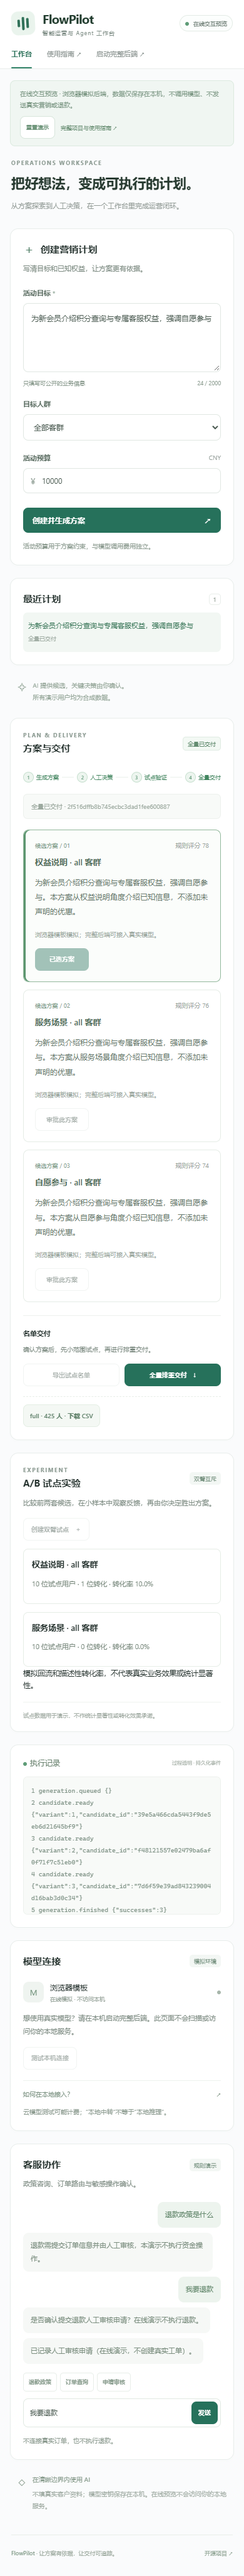
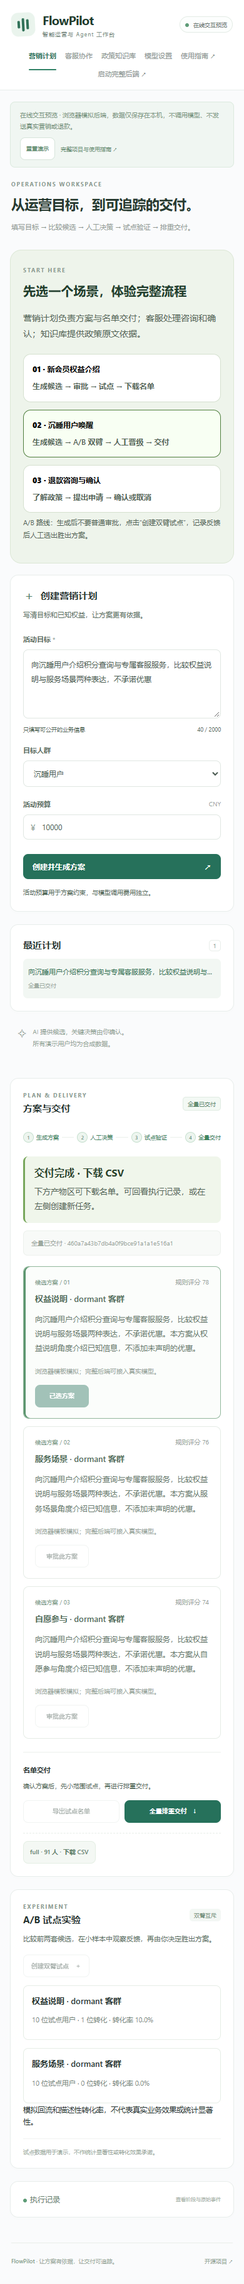
feat: guide FlowPilot users through focused workspaces and delivery routes

diff --git a/web/index.html b/web/index.html
@@ -12,11 +12,12 @@
 <body>
 <header class="topbar">
   <a class="brand" href="./" aria-label="FlowPilot 首页"><span class="brand-mark" aria-hidden="true"><i></i><i></i><i></i></span><strong>FlowPilot<span>智能运营与 Agent 工作台</span></strong></a>
-  <nav aria-label="主导航"><a class="nav-active" href="#workspace">工作台</a><a href="https://github.com/dellya-zhang/temp/blob/main/docs/用户操作指南.md" target="_blank" rel="noopener noreferrer">使用指南 ↗</a><a id="apiLink" href="/docs" target="_blank" rel="noopener noreferrer">API 文档 ↗</a></nav>
+  <nav aria-label="主导航"><a class="nav-active" href="#marketing" data-view="marketing">营销计划</a><a href="#support" data-view="support">客服协作</a><a href="#knowledge" data-view="knowledge">政策知识库</a><a href="#settings" data-view="settings">模型设置</a><a href="https://github.com/dellya-zhang/temp/blob/main/docs/用户操作指南.md" target="_blank" rel="noopener noreferrer">使用指南 ↗</a><a id="apiLink" href="/docs" target="_blank" rel="noopener noreferrer">API 文档 ↗</a></nav>
   <span class="environment" id="environmentBadge"><i></i> 本地工作区</span>
 </header>
-<div class="page-heading"><div><div class="eyebrow">OPERATIONS WORKSPACE</div><h1>把好想法，变成可执行的计划。</h1><p>从方案探索到人工决策，在一个工作台里完成运营闭环。</p></div><a class="text-link" href="https://github.com/dellya-zhang/temp" target="_blank" rel="noopener noreferrer">查看项目源码 <span>↗</span></a></div>
+<div class="page-heading"><div><div class="eyebrow">OPERATIONS WORKSPACE</div><h1>从运营目标，到可追踪的交付。</h1><p>填写目标 → 比较候选 → 人工决策 → 试点验证 → 排重交付。</p></div><a class="text-link" href="https://github.com/dellya-zhang/temp" target="_blank" rel="noopener noreferrer">查看项目源码 <span>↗</span></a></div>
 <p id="notice" class="notice" role="alert" aria-live="polite"></p>
+<section class="journey-intro" id="journeyIntro" aria-label="体验指南"><div><span class="eyebrow">START HERE</span><h2>先选一个场景，体验完整流程</h2><p>营销计划负责方案与名单交付；客服处理咨询和确认；知识库提供政策原文依据。</p></div><div class="scenario-list"><button class="scenario" data-scenario="member"><strong>01 · 新会员权益介绍</strong><span>生成候选 → 审批 → 试点 → 下载名单</span></button><button class="scenario" data-scenario="experiment"><strong>02 · 沉睡用户唤醒</strong><span>生成候选 → A/B 双臂 → 人工晋级 → 交付</span></button><button class="scenario" data-scenario="support"><strong>03 · 退款咨询与确认</strong><span>了解政策 → 提出申请 → 确认或取消</span></button></div><p id="scenarioHint" class="hint" aria-live="polite">场景只填入示例目标；点击“创建并生成方案”才会创建任务。</p></section>
 <main id="workspace" class="workspace">
   <aside class="left-column">
     <section class="panel brief-panel"><div class="section-heading"><span class="section-icon">＋</span><h2>创建营销计划</h2></div><p class="hint">写清目标和已知权益，让方案更有依据。</p>
@@ -32,24 +33,25 @@
   <article class="main-column">
     <section class="panel plan-panel"><div class="section-heading spread"><div><div class="eyebrow">PLAN & DELIVERY</div><h2>方案与交付</h2></div><span id="phaseBadge" class="phase-badge">尚未开始</span></div>
       <div class="stepper" aria-label="任务进度"><span data-step="0"><i>1</i>生成方案</span><b></b><span data-step="1"><i>2</i>人工决策</span><b></b><span data-step="2"><i>3</i>试点验证</span><b></b><span data-step="3"><i>4</i>全量交付</span></div>
-      <p class="state" id="status">选择历史任务或创建新任务</p>
+      <div class="next-action" aria-live="polite"><strong id="nextTitle">第一步 · 描述活动目标</strong><p id="nextDetail">选择上方场景或填写左侧目标，生成三套候选后再决定交付路线。</p></div><p class="state" id="status">选择历史任务或创建新任务</p>
       <div id="candidates"><div class="empty-state"><span class="empty-art" aria-hidden="true">✧</span><h3>下一项计划，从这里开始</h3><p>在左侧描述活动目标。生成后，你可以比较候选、确认方案，<br class="desktop-only">或通过 A/B 试点验证不同方向。</p><div class="empty-tags"><span>有界并发</span><span>人工确认</span><span>交付可追踪</span></div></div></div>
-      <div class="delivery-actions"><div><h3>名单交付</h3><p class="hint">确认方案后，先小范围试点，再进行排重交付。</p></div><div><button id="pilot" class="secondary" disabled>导出试点名单</button><button id="finalize" class="primary" disabled>全量排重交付 <span>↓</span></button></div></div><div id="artifacts" class="artifact-list"></div>
+      <div class="route-choice" id="routeChoice" hidden><strong>选择一条决策路线</strong><p>单方案：在候选卡片中审批一套，再导出试点。A/B：先创建双臂试点，观察反馈后人工晋级。两条路线互斥。</p></div><div class="delivery-actions"><div><h3>名单交付</h3><p class="hint">确认方案后，先小范围试点，再进行排重交付。</p></div><div><button id="pilot" class="secondary" disabled>导出试点名单</button><button id="finalize" class="primary" disabled>全量排重交付 <span>↓</span></button></div></div><div id="artifacts" class="artifact-list"></div>
     </section>
     <section class="panel experiment-panel"><div class="section-heading spread"><div><div class="eyebrow">EXPERIMENT</div><h2>A/B 试点实验</h2></div><span class="subtle-tag">双臂互斥</span></div><p class="hint">比较前两套候选，在小样本中观察反馈，再由你决定胜出方案。</p><button id="experiment" class="secondary" disabled>创建双臂试点 <span>＋</span></button><div id="experimentView"></div><div class="experiment-note">试点数据用于演示，不作统计显著性或转化效果承诺。</div></section>
-    <section class="panel event-panel"><details open><summary><span><span class="live-dot"></span>执行记录</span><small>过程透明 · 持久化事件</small></summary><pre id="events">等待任务开始…</pre></details></section>
+    <section class="panel event-panel"><details><summary><span><span class="live-dot"></span>执行记录</span><small>查看阶段与原始事件</small></summary><pre id="events">等待任务开始…</pre></details></section>
   </article>
   <aside class="right-column support">
     <section class="panel model-panel"><div class="section-heading spread"><h2>模型连接</h2><span id="modelState" class="subtle-tag">检查中</span></div><div class="model-identity"><span class="model-icon">M</span><div><strong id="modelName">本地后端</strong><small id="modelMode">正在读取连接状态</small></div><span class="connection-dot"></span></div><p id="modelDescription" class="hint">密钥仅由本机后端读取，页面不接收模型 API Key。</p><div id="modelBudget" class="budget-strip" hidden></div><div class="model-actions"><button id="testModel" class="secondary" disabled>测试本机连接</button><button id="refreshModel" class="quiet">刷新</button></div><pre id="modelResult" class="model-result" hidden aria-live="polite"></pre>
       <details class="connection-guide"><summary>如何在本地接入？ <span>↗</span></summary><ol><li>克隆项目，在本机安装依赖。</li><li>在 <code>.env</code> 设置模型与密钥，或接入本机推理服务。</li><li>绑定 <code>127.0.0.1</code> 启动后，从本地页面测试。</li></ol><a href="https://github.com/dellya-zhang/temp/blob/main/docs/本地模型接入.md" target="_blank" rel="noopener noreferrer">查看安全接入指南 ↗</a></details><p class="fine-print">云模型测试可能计费；“本地中转”不等于“本地推理”。</p>
     </section>
-    <section class="panel support-panel"><div class="section-heading spread"><h2>客服协作</h2><span class="subtle-tag">规则演示</span></div><p class="hint">政策咨询、订单路由与敏感操作确认。</p><div id="chatlog" aria-live="polite"><div class="chat-welcome"><span>✧</span><p>你好，我可以介绍退款政策，<br>或协助发起审核申请。</p></div></div><div class="quick-prompts"><button class="chip" data-prompt="退款政策是什么">退款政策</button><button class="chip" data-prompt="我的订单在哪里">订单查询</button><button class="chip" data-prompt="我要退款">申请审核</button></div><label class="sr-only" for="message">咨询内容</label><div class="chat-input"><input id="message" value="退款政策是什么" maxlength="2000" placeholder="输入你的问题…"><button id="send" class="primary" aria-label="发送消息">发送</button></div><div id="confirmBox" hidden><div class="confirm-note">此操作需要你的确认</div><button id="confirm" class="primary">确认提交审核</button><button class="secondary" id="cancel">取消申请</button></div><p class="fine-print">不连接真实订单，也不执行退款。</p></section>
-    <section class="panel knowledge-panel"><div class="section-heading spread"><h2>政策知识库</h2><span class="subtle-tag">引用可追溯</span></div><p class="hint">查询本地演示政策，回答附带原文和来源。此入口不执行退款等操作。</p><label for="knowledgeQuestion">政策问题</label><input id="knowledgeQuestion" value="退款政策是什么" maxlength="500" placeholder="如：会员权益有哪些？"><p><label><input type="checkbox" id="knowledgeModel"> 使用已配置模型筛选依据（可能计费）</label></p><button id="knowledgeAsk" class="secondary">检索政策依据</button><div id="knowledgeResult" aria-live="polite"><p class="fine-print">默认免费摘录；模型模式会将问题与检索片段发给所配置的模型。</p></div></section>
+    <section class="panel support-panel"><div class="view-intro"><div class="eyebrow">SUPPORT WORKSPACE</div><h2>先问政策，再确认操作</h2><p>咨询不会发起审核；只有明确提出退款申请，才进入确认流程。确认结果为演示审核记录。</p></div><div class="section-heading spread"><h2>客服协作</h2><span class="subtle-tag">规则演示</span></div><p class="hint">政策咨询、订单路由与敏感操作确认。</p><div id="chatlog" aria-live="polite"><div class="chat-welcome"><span>✧</span><p>你好，我可以介绍退款政策，<br>或协助发起审核申请。</p></div></div><div class="quick-prompts"><button class="chip" data-prompt="退款政策是什么">退款政策</button><button class="chip" data-prompt="我的订单在哪里">订单查询</button><button class="chip" data-prompt="我要退款">申请审核</button></div><label class="sr-only" for="message">咨询内容</label><div class="chat-input"><input id="message" value="退款政策是什么" maxlength="2000" placeholder="输入你的问题…"><button id="send" class="primary" aria-label="发送消息">发送</button></div><div id="confirmBox" hidden><div class="confirm-note">此操作需要你的确认</div><button id="confirm" class="primary">确认提交审核</button><button class="secondary" id="cancel">取消申请</button></div><p class="fine-print">不连接真实订单，也不执行退款。</p></section>
+    <section class="panel knowledge-panel"><div class="view-intro"><div class="eyebrow">POLICY EVIDENCE</div><h2>让政策回答有原文依据</h2><p>输入问题 → 检索政策 → 阅读回答与来源。完整检索需要本地后端。</p></div><div class="section-heading spread"><h2>政策知识库</h2><span class="subtle-tag">引用可追溯</span></div><p class="hint">查询本地演示政策，回答附带原文和来源。此入口不执行退款等操作。</p><label for="knowledgeQuestion">政策问题</label><input id="knowledgeQuestion" value="退款政策是什么" maxlength="500" placeholder="如：会员权益有哪些？"><p><label><input type="checkbox" id="knowledgeModel"> 使用已配置模型筛选依据（可能计费）</label></p><button id="knowledgeAsk" class="secondary">检索政策依据</button><div id="knowledgeResult" aria-live="polite"><p class="fine-print">默认免费摘录；模型模式会将问题与检索片段发给所配置的模型。</p></div></section>
     <section class="privacy-note"><span aria-hidden="true">◇</span><div><strong>在清晰边界内使用 AI</strong><p>不填真实客户资料；模型密钥保存在本机。在线预览不会访问你的本地服务。</p><details><summary>工作区访问令牌</summary><label for="token">本地后台的 ACCESS_TOKEN</label><input id="token" type="password" autocomplete="off" placeholder="可选；请勿填写模型 Key"><button id="saveToken" class="secondary">用于本次页面会话</button></details></div></section>
   </aside>
 </main>
 <footer><span><strong>FlowPilot</strong> · 让方案有依据，让交付可追踪。</span><a href="https://github.com/dellya-zhang/temp" target="_blank" rel="noopener noreferrer">开源项目 ↗</a></footer>
 <script src="./demo.js"></script>
 <script src="./app.js"></script>
+<script src="./workspace.js"></script>
 </body>
 </html>

diff --git a/web/app.js b/web/app.js
@@ -2,12 +2,12 @@ const $=id=>document.getElementById(id);let cid=null,sid=sessionStorage.getItem(
 const statuses={CREATED:'待生成',GENERATING:'生成中',WAITING_APPROVAL:'等待人工审批',PILOT_READY:'可交付试点',PILOT_EXPORTED:'试点已完成',COMPLETED:'全量已交付',FAILED:'生成失败'};
 async function api(path,method='GET',body,extraHeaders={}){const r=await fetch('/api/v1'+path,{method,headers:{'Content-Type':'application/json',...extraHeaders,...(token?{'Authorization':'Bearer '+token}:{})},body:body===undefined?undefined:JSON.stringify(body)});const data=await r.json();if(!r.ok){const error=Error(typeof data.detail==='string'?data.detail:JSON.stringify(data));error.status=r.status;throw error}return data}
 function el(tag,text,parent){const n=document.createElement(tag);n.textContent=text;parent.append(n);return n}function button(text,parent,fn){const b=el('button',text,parent);b.className='secondary';b.onclick=()=>guard(fn,b);return b}
-async function guard(fn,b){$('notice').textContent='';const wasDisabled=b?.disabled;if(b)b.disabled=true;try{await fn()}catch(e){$('notice').textContent=e.message||'连接失败，请检查本地服务'}finally{if(b)b.disabled=wasDisabled||false;if(currentCampaign)syncControls(currentCampaign)}}
+async function guard(fn,b){$('notice').textContent='';if(b?.dataset.busy)return;if(b)b.dataset.busy='1';const wasDisabled=b?.disabled;if(b)b.disabled=true;try{await fn()}catch(e){$('notice').textContent=e.message||'连接失败，请检查本地服务'}finally{if(b){delete b.dataset.busy;b.disabled=wasDisabled||false;}if(currentCampaign)syncControls(currentCampaign)}}
 async function tasks(){const rows=await api('/campaigns');$('taskCount').textContent=rows.length;$('tasks').replaceChildren();if(!rows.length)el('p','还没有计划，创建你的第一项任务。',$('tasks')).className='empty-small';for(const c of rows){const b=button('', $('tasks'),()=>select(c.id));b.className='task'+(c.id===cid?' active':'');el('span',c.brief,b).className='task-title';el('small',statuses[c.status]||c.status,b)}}
 
 async function select(id){cid=id;exp=null;$('experimentView').replaceChildren();if(stream)stream.close();await refresh();await renderExperiment();if(!token&&!window.FlowPilotDemo){stream=new EventSource('/api/v1/campaigns/'+id+'/stream');for(const name of ['candidate.ready','candidate.failed','generation.finished','generation.failed','campaign.approved','pilot.exported','campaign.completed'])stream.addEventListener(name,()=>guard(refresh))}}
-async function refresh(){if(!cid)return;const viewId=cid,sequence=++refreshSequence;const [c,cs,events,arts]=await Promise.all([api('/campaigns/'+viewId),api('/campaigns/'+viewId+'/candidates'),api('/campaigns/'+viewId+'/events'),api('/campaigns/'+viewId+'/artifacts')]);if(viewId!==cid||sequence!==refreshSequence)return;currentCampaign=c;xs=cs;syncControls(c);$('status').textContent=(statuses[c.status]||c.status)+' · '+cid;$('candidates').replaceChildren();for(const x of cs){const box=el('div','',$('candidates'));box.className='candidate'+(c.selected_candidate_id===x.id?' selected':'');const head=el('div','',box);head.className='candidate-head';el('span','候选方案 / 0'+x.variant,head).className='badge';el('span','规则评分 '+x.score,head).className='score';el('h3',x.title,box);el('p',x.message,box);el('small',x.reasoning,box);const b=button(c.selected_candidate_id===x.id?'已选方案':'审批此方案',box,async()=>{await api('/campaigns/'+cid+'/approve','POST',{candidate_id:x.id});await refresh()});b.className=c.selected_candidate_id===x.id?'primary':'secondary';b.disabled=c.status!=='WAITING_APPROVAL'}$('pilot').disabled=!!sessionStorage.getItem('exp-'+cid)||!['PILOT_READY','PILOT_EXPORTED','COMPLETED'].includes(c.status);$('finalize').disabled=!['PILOT_EXPORTED','COMPLETED'].includes(c.status);$('experiment').disabled=c.status!=='WAITING_APPROVAL'||cs.length<2;$('events').textContent=events.map(e=>e.id+' '+e.name+' '+JSON.stringify(e.payload)).join('\n');$('artifacts').replaceChildren();for(const a of arts){button(a.kind+' · '+a.row_count+' 人 · 下载 CSV',$('artifacts'),async()=>{const r=await fetch('/api/v1/artifacts/'+a.id+'/download',{headers:token?{'Authorization':'Bearer '+token}:{}});if(!r.ok)throw Error('下载失败');const url=URL.createObjectURL(await r.blob());const link=document.createElement('a');link.href=url;link.download=a.kind+'.csv';link.click();setTimeout(()=>URL.revokeObjectURL(url),1000)})}await tasks()}
-async function experiment(){exp=await api('/experiments','POST',{campaign_id:cid,candidate_ids:xs.slice(0,2).map(x=>x.id)});sessionStorage.setItem('exp-'+cid,exp.id);await renderExperiment()}
+async function refresh(){if(!cid)return;const viewId=cid,sequence=++refreshSequence;const [c,cs,events,arts]=await Promise.all([api('/campaigns/'+viewId),api('/campaigns/'+viewId+'/candidates'),api('/campaigns/'+viewId+'/events'),api('/campaigns/'+viewId+'/artifacts')]);if(viewId!==cid||sequence!==refreshSequence)return;currentCampaign=c;xs=cs;syncControls(c);window.dispatchEvent(new CustomEvent('campaign-view',{detail:c}));$('status').textContent=(statuses[c.status]||c.status)+' · '+cid;$('candidates').replaceChildren();for(const x of cs){const box=el('div','',$('candidates'));box.className='candidate'+(c.selected_candidate_id===x.id?' selected':'');const head=el('div','',box);head.className='candidate-head';el('span','候选方案 / 0'+x.variant,head).className='badge';el('span','规则评分 '+x.score,head).className='score';el('h3',x.title,box);el('p',x.message,box);el('small',x.reasoning,box);const b=button(c.selected_candidate_id===x.id?'已选方案':'审批此方案',box,async()=>{await api('/campaigns/'+cid+'/approve','POST',{candidate_id:x.id});await refresh()});b.className=c.selected_candidate_id===x.id?'primary':'secondary';b.disabled=!!sessionStorage.getItem('exp-'+cid)||c.status!=='WAITING_APPROVAL'}$('pilot').disabled=!!sessionStorage.getItem('exp-'+cid)||!['PILOT_READY','PILOT_EXPORTED','COMPLETED'].includes(c.status);$('finalize').disabled=!['PILOT_EXPORTED','COMPLETED'].includes(c.status);$('experiment').disabled=c.status!=='WAITING_APPROVAL'||cs.length<2;$('events').textContent=events.map(e=>e.id+' '+e.name+' '+JSON.stringify(e.payload)).join('\n');$('artifacts').replaceChildren();for(const a of arts){button(a.kind+' · '+a.row_count+' 人 · 下载 CSV',$('artifacts'),async()=>{const r=await fetch('/api/v1/artifacts/'+a.id+'/download',{headers:token?{'Authorization':'Bearer '+token}:{}});if(!r.ok)throw Error('下载失败');const url=URL.createObjectURL(await r.blob());const link=document.createElement('a');link.href=url;link.download=a.kind+'.csv';link.click();setTimeout(()=>URL.revokeObjectURL(url),1000)})}await tasks()}
+async function experiment(){exp=await api('/experiments','POST',{campaign_id:cid,candidate_ids:xs.slice(0,2).map(x=>x.id)});sessionStorage.setItem('exp-'+cid,exp.id);await renderExperiment();await refresh()}
 async function renderExperiment(){const id=exp?.id||sessionStorage.getItem('exp-'+cid);if(!id)return;exp=await api('/experiments/'+id);const box=$('experimentView');box.replaceChildren();for(const arm of exp.arms){const armBox=el('div','',box);armBox.className='experiment-arm';const matched=xs.find(x=>x.id===arm.candidate_id);el('h3',matched?.title||('方案 '+arm.candidate_id.slice(0,8)),armBox);el('p',arm.users.length+' 位试点用户 · '+arm.conversions+' 位转化 · 转化率 '+(100*arm.rate).toFixed(1)+'%',armBox);if(exp.status==='RUNNING'){button('记录一名模拟转化',armBox,async()=>{await api('/experiments/'+id+'/feedback','POST',{event_id:id+'-'+arm.users[0],candidate_id:arm.candidate_id,customer_id:arm.users[0]});await renderExperiment()});button('人工选为胜出方案',armBox,async()=>{await api('/experiments/'+id+'/promote?candidate_id='+arm.candidate_id,'POST');await renderExperiment();await refresh()})}}el('small',exp.note,box)}
 async function chat(){if(!sid){sid=(await api('/support/sessions','POST')).session_id;sessionStorage.setItem('sid',sid)}const result=await api('/support/sessions/'+sid+'/messages','POST',{content:$('message').value});await history();$('confirmBox').hidden=!result.needs_confirmation}
 async function history(){if(!sid)return;const rows=await api('/support/sessions/'+sid+'/messages');$('chatlog').replaceChildren();for(const r of rows)el('p',r.content,$('chatlog')).className=r.role;$('chatlog').scrollTop=$('chatlog').scrollHeight}

diff --git a/web/workspace.js b/web/workspace.js
@@ -1,0 +1,51 @@
+/* Task-oriented navigation shared by static preview and the Python workspace. */
+(() => {
+  const byId = id => document.getElementById(id);
+  const views = ['marketing', 'support', 'knowledge', 'settings'];
+  function showView(view) {
+    if (!views.includes(view)) view = 'marketing';
+    document.body.dataset.view = view;
+    const headings = {marketing:['从运营目标，到可追踪的交付。','填写目标 → 比较候选 → 人工决策 → 试点验证 → 排重交付。'],support:['让咨询与操作，各有清晰的流程。','查看政策、提出申请，再由你确认是否提交演示审核。'],knowledge:['回答有依据，政策可追溯。','检索本地政策，阅读原文引用；此入口不发起业务操作。'],settings:['连接模型，查看调用预算。','本地后端负责模型连接；在线演示使用浏览器模板。']};
+    document.querySelector('.page-heading h1').textContent = headings[view][0];
+    document.querySelector('.page-heading p').textContent = headings[view][1];
+    document.querySelectorAll('[data-view]').forEach(a => {
+      a.classList.toggle('nav-active', a.dataset.view === view);
+      if (a.dataset.view === view) a.setAttribute('aria-current', 'page');
+      else a.removeAttribute('aria-current');
+    });
+    const panels = {'.left-column': view === 'marketing', '.main-column': view === 'marketing', '.support-panel': view === 'support', '.knowledge-panel': view === 'knowledge', '.model-panel': view === 'settings', '.privacy-note': view === 'settings'};
+    for (const [selector, visible] of Object.entries(panels)) document.querySelector(selector).hidden = !visible;
+    document.querySelector('.right-column').hidden = view === 'marketing';
+    byId('journeyIntro').hidden = view !== 'marketing';
+  }
+  window.addEventListener('hashchange', () => showView(location.hash.slice(1)));
+  showView(location.hash.slice(1));
+  const scenarios = {
+    member: ['为新会员介绍积分查询与专属客服权益，不提供额外折扣，强调自愿参与', 'new', '单方案路线：生成后审批一套候选，再导出试点与全量名单。'],
+    experiment: ['向沉睡用户介绍积分查询与专属客服服务，比较权益说明与服务场景两种表达，不承诺优惠', 'dormant', 'A/B 路线：生成后不要普通审批，点击“创建双臂试点”，记录反馈后人工选出胜出方案。']
+  };
+  document.querySelectorAll('[data-scenario]').forEach(b => b.addEventListener('click', () => {
+    if (b.dataset.scenario === 'support') { location.hash = 'support'; byId('message').focus(); return; }
+    const [brief, audience, hint] = scenarios[b.dataset.scenario];
+    byId('brief').value = brief; byId('audience').value = audience;
+    byId('brief').dispatchEvent(new Event('input'));
+    byId('scenarioHint').textContent = hint;
+    document.querySelectorAll('[data-scenario]').forEach(x => x.classList.toggle('chosen', x === b));
+    byId('brief').focus();
+  }));
+  window.addEventListener('campaign-view', ({detail:c}) => {
+    const experiment = !!sessionStorage.getItem('exp-' + c.id);
+    const steps = {
+      CREATED: ['准备生成', '点击创建并生成方案，启动候选生成。'],
+      GENERATING: ['正在生成候选', '候选会陆续出现。等待生成完成后，再选择审批或 A/B 路线。'],
+      WAITING_APPROVAL: experiment ? ['下一步 · 观察双臂反馈并人工晋级', '在下方实验区记录模拟转化，再选择胜出方案。普通审批已关闭。'] : ['下一步 · 选择决策路线', '直接审批一套候选，或在下方创建 A/B 双臂试点。选择后不能切换路线。'],
+      PILOT_READY: ['下一步 · 导出试点名单', '方案已确认。先导出小范围试点，再进行全量排重交付。'],
+      PILOT_EXPORTED: ['下一步 · 全量排重交付', experiment ? '胜出方案已确认。全量交付将排除两臂全部试点用户。' : '试点名单已就绪。全量交付将排除已参加试点的用户。'],
+      COMPLETED: ['交付完成 · 下载 CSV', '下方产物区可下载名单。可回看执行记录，或在左侧创建新任务。'],
+      FAILED: ['生成失败', '展开执行记录查看原因，调整目标后创建新任务。']
+    };
+    const [title, detail] = steps[c.status] || ['查看当前任务', '请查看任务状态与执行记录。'];
+    byId('nextTitle').textContent = title; byId('nextDetail').textContent = detail;
+    byId('routeChoice').hidden = c.status !== 'WAITING_APPROVAL' || experiment;
+  });
+})();

diff --git a/web/styles.css b/web/styles.css
@@ -935,3 +935,25 @@ footer>span {
 
 
 .knowledge-panel input[type="checkbox"]{width:auto;display:inline;margin-right:6px}.knowledge-panel small{display:block;overflow-wrap:anywhere;margin:8px 0}.knowledge-panel #knowledgeResult p{white-space:pre-wrap;overflow-wrap:anywhere}
+/* Guided workspace: a single primary task per view. */
+[hidden]{display:none!important}
+.topbar nav{flex-wrap:wrap;gap:18px}
+.journey-intro{max-width:1440px;margin:0 auto 24px;padding:26px 32px;background:#eef4eb;border:1px solid #dce7d6;border-radius:18px}
+.journey-intro h2{margin:8px 0;font-size:23px;color:#223e2d}
+.journey-intro p{color:#526455;line-height:1.8}
+.scenario-list{display:grid;grid-template-columns:repeat(3,minmax(0,1fr));gap:12px;margin-top:20px}
+.scenario{background:#fff;border:1px solid #d5e0cf;border-radius:12px;padding:18px;text-align:left;white-space:normal;height:auto}
+.scenario strong,.scenario span{display:block}.scenario span{font-size:12px;margin-top:8px;color:#526455;line-height:1.7}.scenario.chosen{border-color:#507f3e;background:#f8fff3}
+body[data-view="marketing"] .workspace{grid-template-columns:300px minmax(0,1fr);max-width:1440px}
+body:not([data-view="marketing"]) .workspace{display:block;max-width:900px}
+body:not([data-view="marketing"]) .right-column{width:100%}
+.next-action{padding:18px 20px;border-left:3px solid #77a65b;background:#f0f6eb;border-radius:8px;margin:22px 0 12px}
+.next-action strong{font-size:16px;color:#29432b}.next-action p,.route-choice p{line-height:1.8;color:#526455;font-size:13px;margin:8px 0 0}
+.route-choice{padding:18px;border:1px dashed #a9bb9c;border-radius:10px;margin:18px 0}
+.view-intro{border-bottom:1px solid #e0e7dd;padding-bottom:20px;margin-bottom:24px}.view-intro h2{font-size:25px;margin:10px 0}.view-intro p{line-height:1.8;color:#526455}
+body[data-view="support"] #chatlog{height:330px}
+.hint,.fine-print,.field-meta{color:#586d5e}
+@media(max-width:1000px){body[data-view="marketing"] .workspace{grid-template-columns:260px minmax(0,1fr)}.journey-intro{margin:0 24px 24px}.topbar{flex-wrap:wrap;height:auto;gap:16px;padding-top:18px;padding-bottom:18px}.topbar nav{order:3;width:100%;justify-content:center}}
+@media(max-width:720px){body[data-view="marketing"] .workspace{display:flex;flex-direction:column}.journey-intro{padding:20px;margin:0 16px 18px}.journey-intro h2{font-size:20px}.scenario-list{grid-template-columns:1fr}.topbar nav{gap:14px;font-size:12px}.scenario{padding:14px}.next-action{padding:15px}.view-intro h2{font-size:21px}}
+.scenario{display:block}.scenario strong{display:block}.scenario span{display:block}
+@media(max-width:720px){body[data-view="marketing"] .workspace>aside,body[data-view="marketing"] .workspace>article{width:100%}}

diff --git a/scripts/browser_e2e.py b/scripts/browser_e2e.py
@@ -7,25 +7,44 @@ with sync_playwright() as p:
  errors=[]
  page.on('pageerror',lambda error:errors.append(str(error)))
  page.goto('http://127.0.0.1:8017')
+ page.click('[data-scenario="experiment"]')
+ assert page.input_value('#audience') == 'dormant'
  page.click('#create')
  page.wait_for_selector('.candidate',timeout=20000)
  page.wait_for_function("() => document.querySelectorAll('.candidate').length===3")
  page.click('#experiment')
  page.wait_for_selector('#experimentView button')
+ assert page.locator('.candidate button:enabled').count() == 0
  page.get_by_role('button',name='记录一名模拟转化').first.click()
  page.get_by_role('button',name='人工选为胜出方案').first.click()
  page.wait_for_function("() => !document.getElementById('finalize').disabled")
  page.click('#finalize')
  page.wait_for_function("() => document.getElementById('status').textContent.includes('全量已交付')")
+ page.locator('[data-view="support"]').click()
  page.click('#send')
  page.wait_for_function("() => document.getElementById('chatlog').textContent.includes('退款需')")
  page.fill('#message','我要退款');page.click('#send')
  page.wait_for_selector('#confirmBox:visible');page.click('#confirm')
  page.wait_for_function("() => document.getElementById('chatlog').textContent.includes('已记录人工审核')")
+ page.locator('[data-view="marketing"]').click()
  page.screenshot(path=str(root/'工作台预览.png'),full_page=True)
  page.set_viewport_size({'width':390,'height':844})
- assert page.evaluate('document.documentElement.scrollWidth <= innerWidth')
+ assert page.evaluate('document.documentElement.scrollWidth <= innerWidth'), page.evaluate('({view:document.body.dataset.view,w:innerWidth,sw:document.documentElement.scrollWidth,wide:[...document.querySelectorAll("body *")].filter(x=>x.getBoundingClientRect().right>innerWidth).map(x=>x.tagName+"."+x.className).slice(0,15)})')
  page.screenshot(path=str(root/'移动端预览.png'),full_page=True)
+ for view in ['support','knowledge','settings','marketing']:
+  page.locator('[data-view="'+view+'"]').click()
+  assert page.evaluate('document.documentElement.scrollWidth <= innerWidth'), page.evaluate('({view:document.body.dataset.view,w:innerWidth,sw:document.documentElement.scrollWidth,wide:[...document.querySelectorAll("body *")].filter(x=>x.getBoundingClientRect().right>innerWidth).map(x=>x.tagName+"."+x.className).slice(0,15)})')
+ page.click('[data-scenario="member"]')
+ page.click('#create')
+ page.wait_for_function("() => document.querySelectorAll('.candidate button:enabled').length===3")
+ page.locator('.candidate button').first.click()
+ page.click('#pilot')
+ page.wait_for_function("() => !document.getElementById('finalize').disabled")
+ page.click('#finalize')
+ page.wait_for_function("() => document.getElementById('status').textContent.includes('全量已交付')")
+ with page.expect_download() as downloaded:
+  page.locator('#artifacts button').first.click()
+ assert downloaded.value.suggested_filename.endswith('.csv')
  assert not errors,errors
  print('Browser E2E passed: generation, AB feedback, promotion, full export, FAQ, confirmation, mobile layout; zero JS errors')
  browser.close()

diff --git a/README.md b/README.md
@@ -12,14 +12,35 @@
 
 ![FlowPilot 在线工作台](docs/在线演示桌面.png)
 
-## 本地模型连接
+## 三分钟体验
 
-白色工作台右侧新增“模型连接”：本地访问时显示Provider、模型、调用次数与保守预算，并可显式发起一次固定提示词测试。在线GitHub Pages不连接访客的localhost，测试按钮保持关闭。
+1. 打开 **[在线交互演示](https://dellya-zhang.github.io/temp/)**，选择“新会员权益介绍”或“沉睡用户唤醒”。场景只填入示例，不会自动创建任务。
+2. 点击 **创建并生成方案**，比较三套候选。页面会随任务阶段提示下一步。
+3. 选择一条路线：**单方案审批 → 试点 → 全量交付**，或 **A/B 双臂 → 模拟反馈 → 人工晋级 → 全量交付**。两条路线互斥。
+4. 在产物区下载 CSV；从顶部导航切换到 **客服协作**，体验政策咨询和操作确认。
 
-- 模型Key只由本机.env读取；浏览器没有模型Key输入框，诊断响应不返回Key。
-- 本机后端中转DeepSeek仍会把提示词发到云端；选择AI_PROVIDER=local才连接本机推理服务。
-- 诊断接口限制回环来源、Host及同源Origin；POST还需专用头，不接受浏览器传入URL、模型、Key或提示词。
-- [完整本地接入说明](docs/本地模型接入.md)。
+**四个工作区**：营销计划负责候选与名单；客服协作负责咨询与审核确认；政策知识库负责原文依据；模型设置负责本地连接和预算诊断。在线预览不提供真实模型或知识库检索。
+
+## 核心能力
+
+- **目标驱动的方案生成**：围绕活动目标、人群和预算生成候选，人工决定采用哪一套。
+- **两条清晰的决策路线**：单方案试点或互斥 A/B 分臂，选定路线后按阶段推进。
+- **可核验的交付**：下载试点与全量 CSV，全量排除试点用户；执行记录保留阶段事件。
+- **咨询与操作分离**：政策咨询不产生退款操作；申请必须由用户确认，知识库可返回政策引用。
+
+```mermaid
+flowchart LR
+    A[活动目标 / 人群 / 预算] --> B[Planner → Executor → Critic]
+    B --> C[候选比较]
+    C --> D[人工审批 → 试点名单]
+    C --> E[A/B 双臂 → 反馈 → 人工晋级]
+    D --> F[排除试点用户 → 全量 CSV]
+    E --> F
+    G[政策问题] --> H[检索 → 原文依据]
+    I[退款申请] --> J[人工确认 / 取消 → 演示审核记录]
+```
+
+完整能力对应 Python 后端；GitHub Pages 使用浏览器模板模拟营销与客服流程。详见[本地模型接入](docs/本地模型接入.md)。
 
 ## 可以体验什么
 
